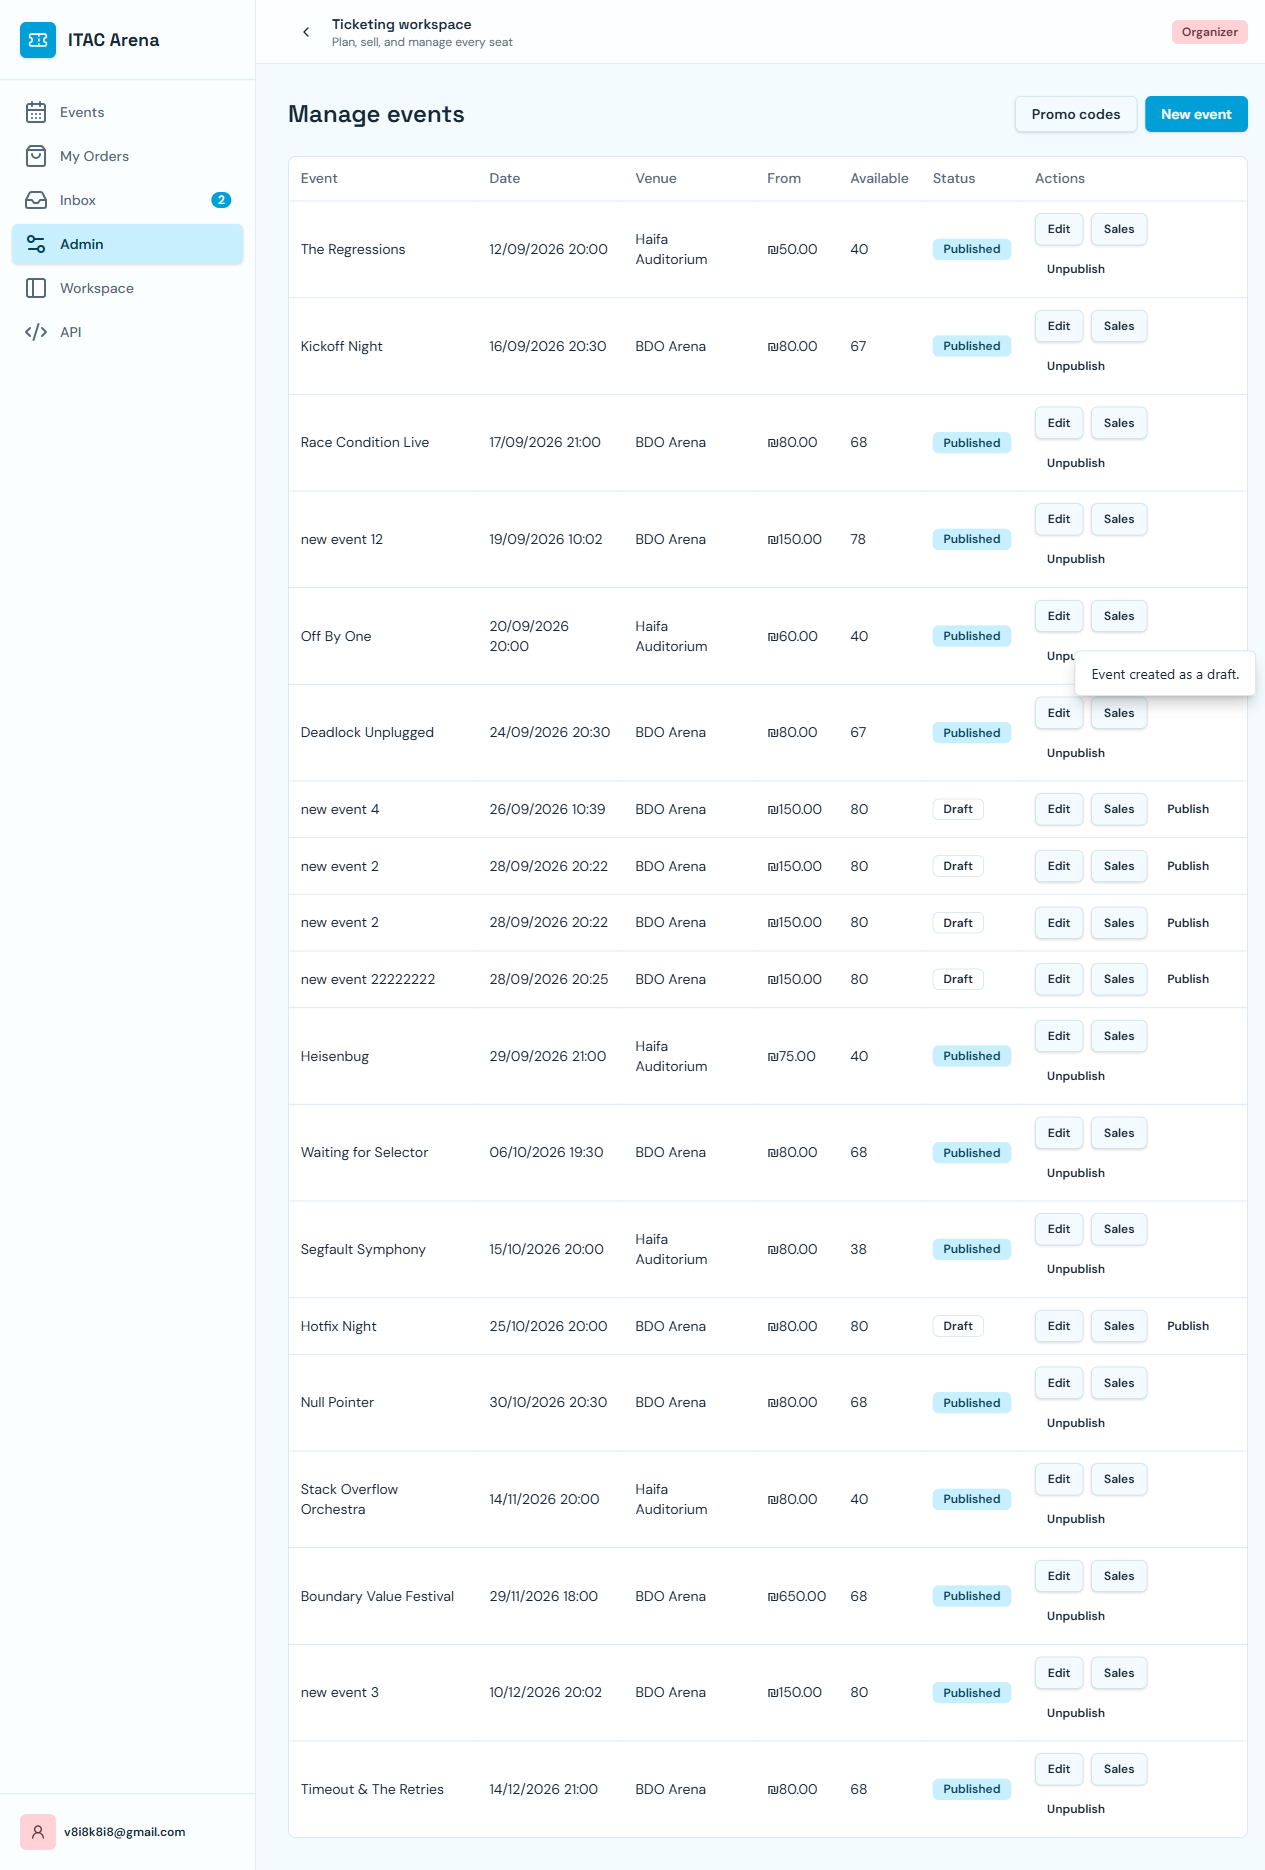
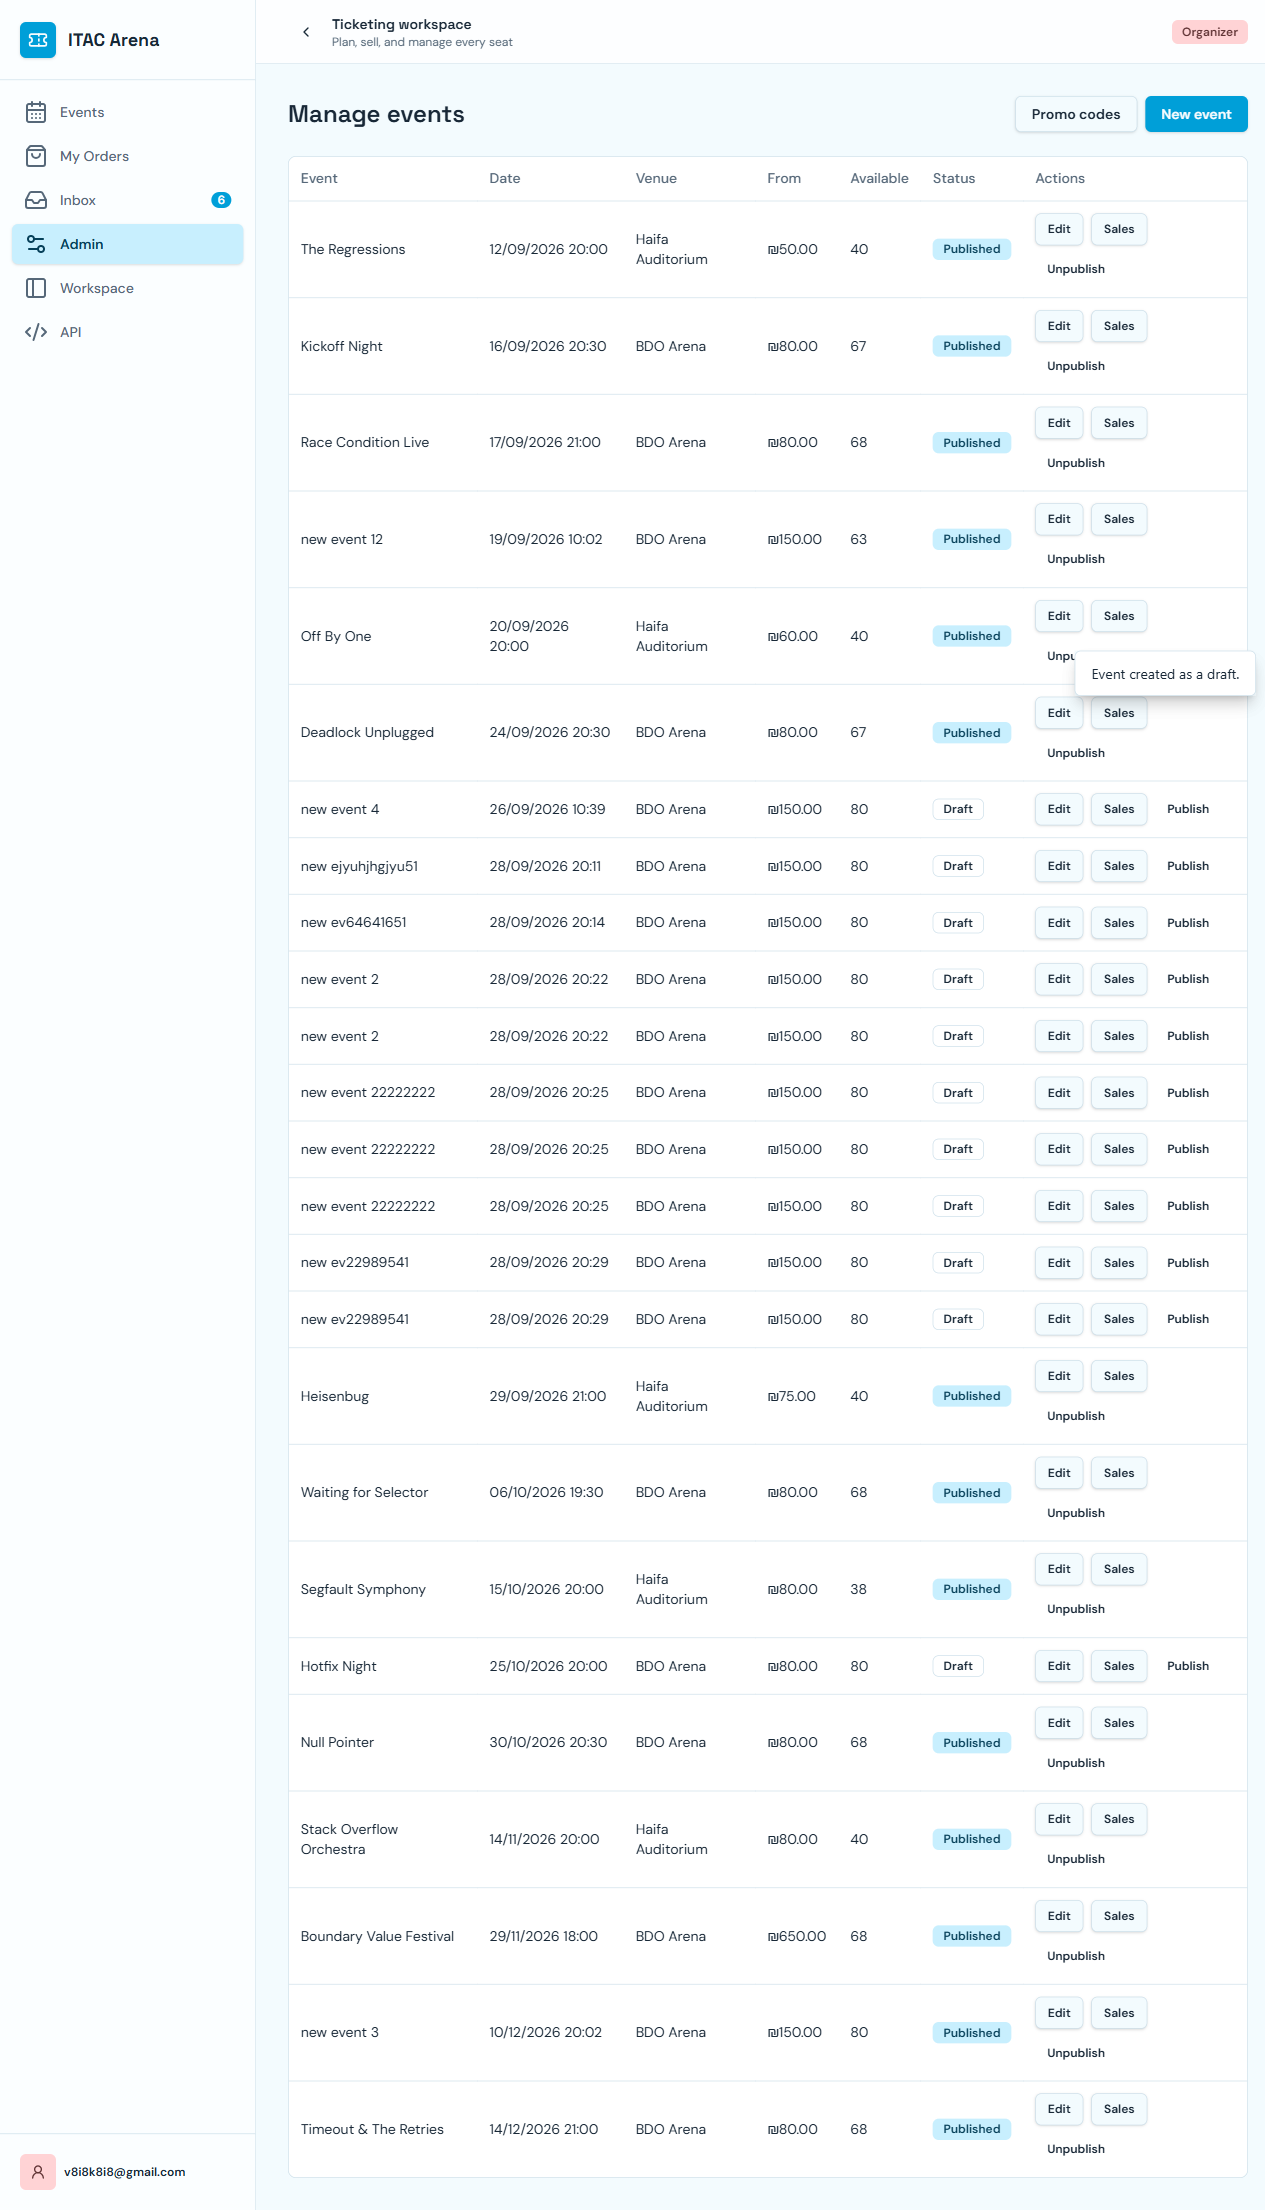
Updates

diff --git a/reports/report.html b/reports/report.html
@@ -328,7 +328,7 @@ div.media {
   </head>
   <body>
     <h1 id="title">report.html</h1>
-    <p>Report generated on 18-Sep-2026 at 11:03:58 by <a href="https://pypi.python.org/pypi/pytest-html">pytest-html</a>
+    <p>Report generated on 18-Sep-2026 at 11:43:51 by <a href="https://pypi.python.org/pypi/pytest-html">pytest-html</a>
         v4.2.0</p>
     <div id="environment-header">
       <h2>Environment</h2>
@@ -383,7 +383,7 @@ div.media {
         <h2>Summary</h2>
         <div class="additional-summary prefix">
         </div>
-        <p class="run-count">1 test took 00:00:08.</p>
+        <p class="run-count">1 test took 00:00:09.</p>
         <p class="filter">(Un)check the boxes to filter the results.</p>
         <div class="summary__reload">
           <div class="summary__reload__button hidden" onclick="location.reload()">
@@ -431,7 +431,7 @@ div.media {
       </thead>
     </table>
   <footer>
-    <div id="data-container" data-jsonblob="{&#34;environment&#34;: {&#34;Python&#34;: &#34;3.11.7&#34;, &#34;Platform&#34;: &#34;Windows-10-10.0.26200-SP0&#34;, &#34;Packages&#34;: {&#34;pytest&#34;: &#34;9.1.1&#34;, &#34;pluggy&#34;: &#34;1.6.0&#34;}, &#34;Plugins&#34;: {&#34;base-url&#34;: &#34;2.1.0&#34;, &#34;html&#34;: &#34;4.2.0&#34;, &#34;metadata&#34;: &#34;3.1.1&#34;, &#34;playwright&#34;: &#34;0.9.0&#34;}, &#34;Base URL&#34;: &#34;&#34;}, &#34;tests&#34;: {&#34;tests/test_create_event.py::test_create_event[chromium]&#34;: [{&#34;extras&#34;: [], &#34;result&#34;: &#34;Passed&#34;, &#34;testId&#34;: &#34;tests/test_create_event.py::test_create_event[chromium]&#34;, &#34;duration&#34;: &#34;00:00:08&#34;, &#34;resultsTableRow&#34;: [&#34;&lt;td class=\&#34;col-result\&#34;&gt;Passed&lt;/td&gt;&#34;, &#34;&lt;td class=\&#34;col-testId\&#34;&gt;tests/test_create_event.py::test_create_event[chromium]&lt;/td&gt;&#34;, &#34;&lt;td class=\&#34;col-duration\&#34;&gt;00:00:08&lt;/td&gt;&#34;, &#34;&lt;td class=\&#34;col-links\&#34;&gt;&lt;/td&gt;&#34;], &#34;log&#34;: &#34;No log output captured.&#34;}]}, &#34;renderCollapsed&#34;: [&#34;passed&#34;], &#34;initialSort&#34;: &#34;result&#34;, &#34;title&#34;: &#34;report.html&#34;}"></div>
+    <div id="data-container" data-jsonblob="{&#34;environment&#34;: {&#34;Python&#34;: &#34;3.11.7&#34;, &#34;Platform&#34;: &#34;Windows-10-10.0.26200-SP0&#34;, &#34;Packages&#34;: {&#34;pytest&#34;: &#34;9.1.1&#34;, &#34;pluggy&#34;: &#34;1.6.0&#34;}, &#34;Plugins&#34;: {&#34;base-url&#34;: &#34;2.1.0&#34;, &#34;html&#34;: &#34;4.2.0&#34;, &#34;metadata&#34;: &#34;3.1.1&#34;, &#34;playwright&#34;: &#34;0.9.0&#34;}, &#34;Base URL&#34;: &#34;&#34;}, &#34;tests&#34;: {&#34;tests/test_create_event.py::test_create_event[chromium]&#34;: [{&#34;extras&#34;: [], &#34;result&#34;: &#34;Passed&#34;, &#34;testId&#34;: &#34;tests/test_create_event.py::test_create_event[chromium]&#34;, &#34;duration&#34;: &#34;00:00:09&#34;, &#34;resultsTableRow&#34;: [&#34;&lt;td class=\&#34;col-result\&#34;&gt;Passed&lt;/td&gt;&#34;, &#34;&lt;td class=\&#34;col-testId\&#34;&gt;tests/test_create_event.py::test_create_event[chromium]&lt;/td&gt;&#34;, &#34;&lt;td class=\&#34;col-duration\&#34;&gt;00:00:09&lt;/td&gt;&#34;, &#34;&lt;td class=\&#34;col-links\&#34;&gt;&lt;/td&gt;&#34;], &#34;log&#34;: &#34;No log output captured.&#34;}]}, &#34;renderCollapsed&#34;: [&#34;passed&#34;], &#34;initialSort&#34;: &#34;result&#34;, &#34;title&#34;: &#34;report.html&#34;}"></div>
     <script>
       (function(){function r(e,n,t){function o(i,f){if(!n[i]){if(!e[i]){var c="function"==typeof require&&require;if(!f&&c)return c(i,!0);if(u)return u(i,!0);var a=new Error("Cannot find module '"+i+"'");throw a.code="MODULE_NOT_FOUND",a}var p=n[i]={exports:{}};e[i][0].call(p.exports,function(r){var n=e[i][1][r];return o(n||r)},p,p.exports,r,e,n,t)}return n[i].exports}for(var u="function"==typeof require&&require,i=0;i<t.length;i++)o(t[i]);return o}return r})()({1:[function(require,module,exports){
 const { getCollapsedCategory, setCollapsedIds } = require('./storage.js')

diff --git a/tests/test_create_event.py b/tests/test_create_event.py
@@ -22,10 +22,12 @@ def test_create_event(page):
     
         #locators
     admin = page.get_by_test_id("nav-admin") 
-    event_name = "new event 22222222"
-    lineup = "lineup 22222222222"
+    
+    
+    event_name = "new event 6666aaaa"
+    lineup = "lineup 13aaa"
     category = "Comedy"
-    start_date = "2026-09-28T20:25"
+    start_date = "2026-09-28T20:16"
     venue = "9b3e9fef-2d2c-4a68-86bd-0da1eca58bb0"  # Tel Aviv
     
     events_page = EventsPage(page)

diff --git a/README.md b/README.md
@@ -1,0 +1,67 @@
+
+
+# ITAC Arena Automation
+
+
+## Tech Stack
+
+- Python 3.11
+- Pytest
+- Playwright
+- Pytest-Playwright
+- Pytest-HTML
+- GitHub Actions
+
+## Automated Scenarios
+Current automated coverage includes:
+
+- Valid user login
+- Navigation to the Admin area
+- Event creation
+- Validation of created event
+
+## Installation
+
+Clone the repository:
+
+```bash
+git clone <repository-url>
+cd <repository-name>
+```
+
+Create and activate a virtual environment:
+
+```bash
+python -m venv venv
+```
+
+Windows:
+
+```bash
+venv\Scripts\activate
+```
+
+Install dependencies:
+
+```bash
+pip install -r requirements.txt
+```
+
+Install Playwright Chromium:
+
+```bash
+playwright install chromium
+```
+
+## Running the Tests
+
+Run all tests:
+
+```bash
+pytest
+```
+
+
+# Final notes
+ Change the event details each time you run the test in order to create a valid event.
+ The qa env is uploaded intentionally so that you can test as is.
